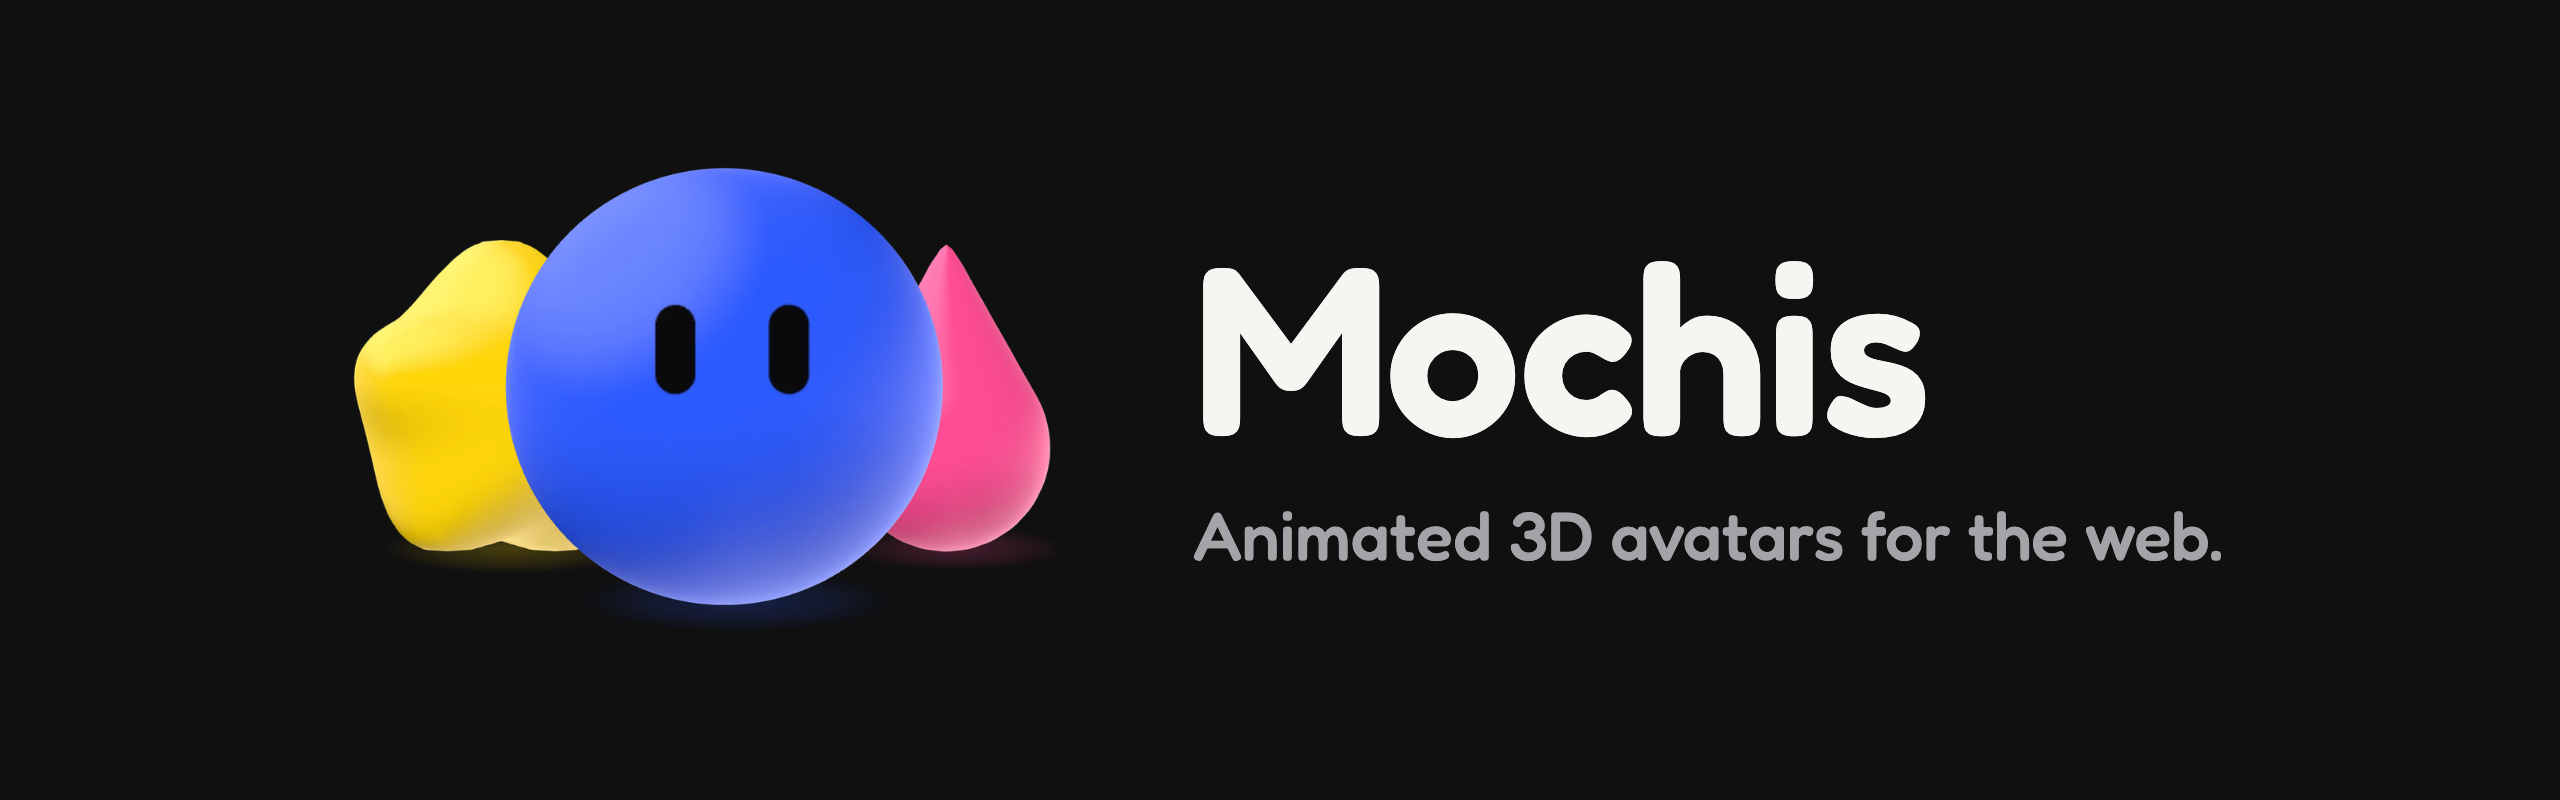
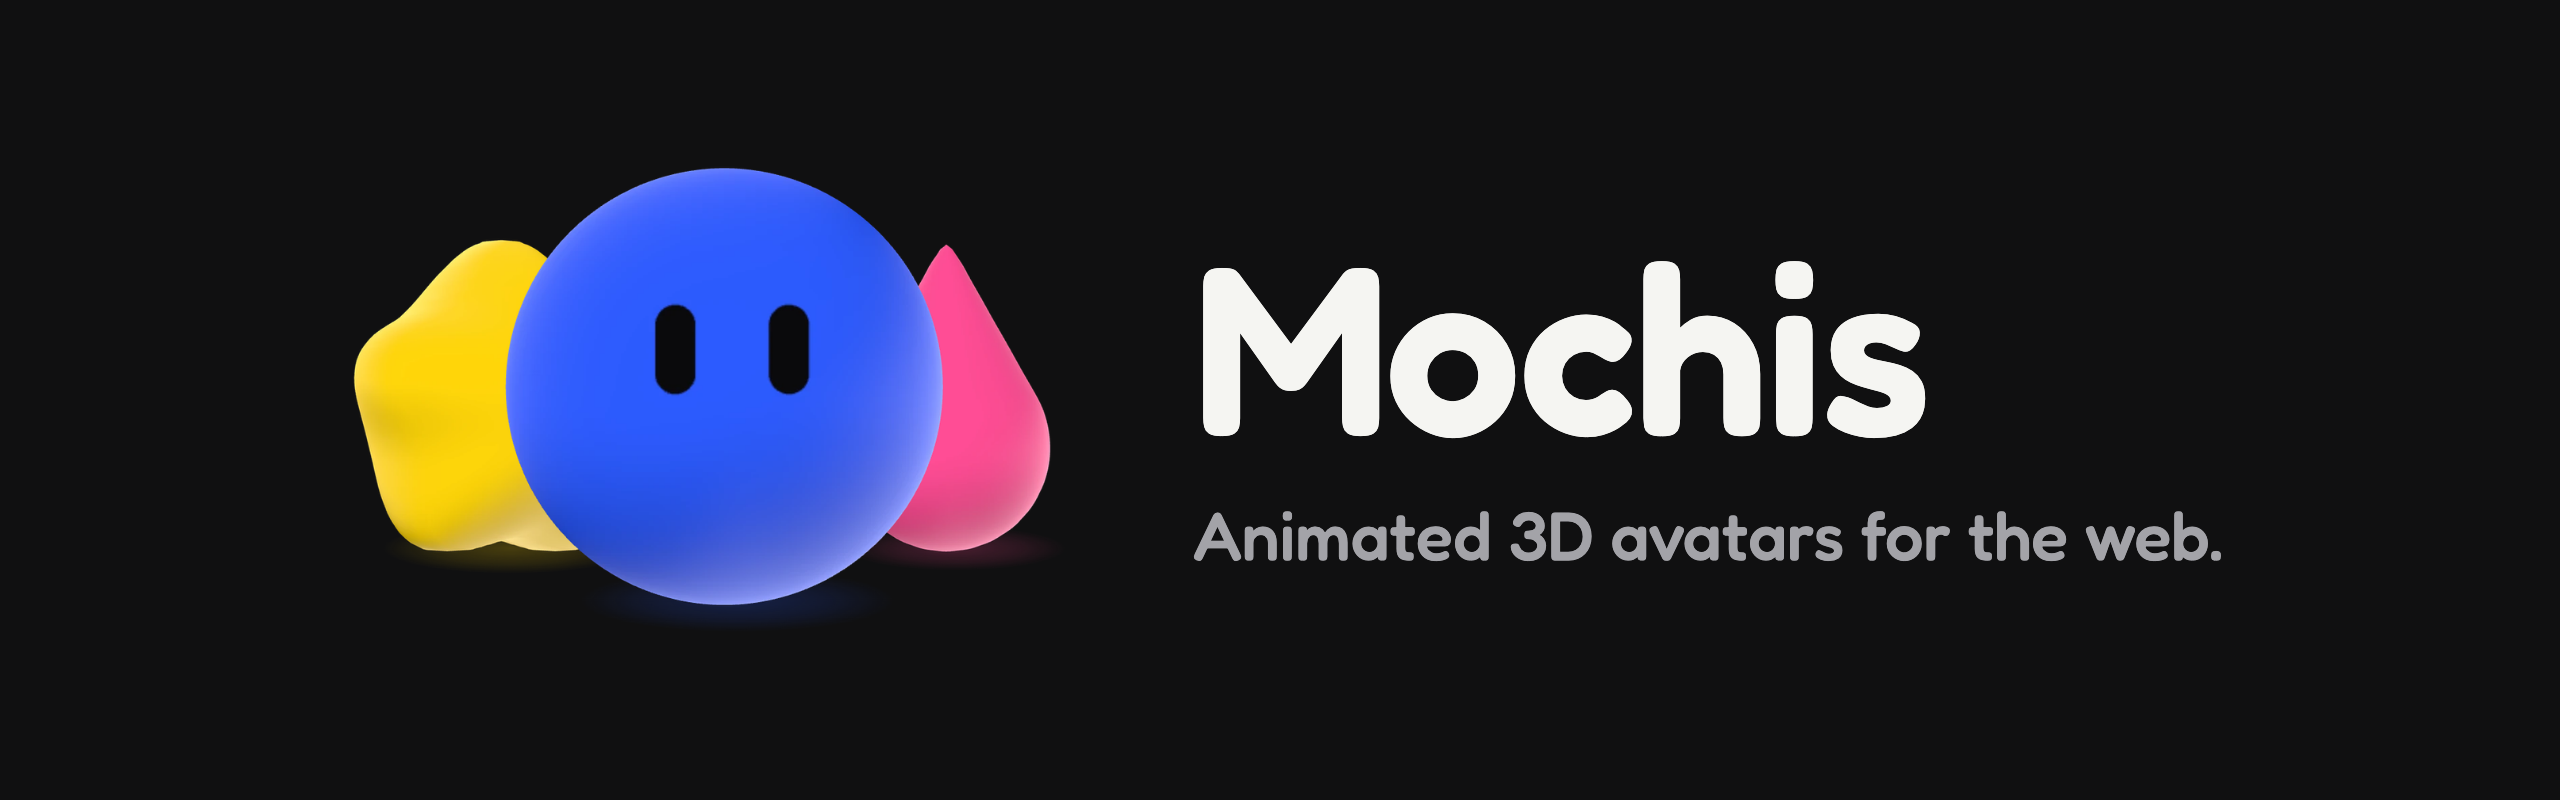
Identity images and lab screenshots without the shine spot
- og.png, docs/banner.png and docs/banner-dark.png recomposed with the same P3 layout,
  from Mochis rendered by the current engine (only the highlight changes).
- docs/variants: the old 2D-era and highlight/outline comparison sheets are replaced by
  current lab captures (styles, shapes x styles, turntable); styles.md links them.

Claude-Session: https://claude.ai/code/session_01W5fu7ByrrBFSvr8x7FWJfj

Changed region(s): [[0.125, 0.2188, 0.3125, 0.4688], [0.3438, 0.3125, 0.375, 0.4062]]

diff --git a/src/lab/FlatSheet3d.ts b/src/lab/FlatSheet3d.ts
@@ -66,7 +66,7 @@ export const FlatSheet3d: Component<Record<string, never>> = () => {
     h(
       'main',
       { class: 'p-4' },
-      h('h1', { class: 'mb-3 text-lg font-bold' }, '3D: Flat, Soft light, Soft strong'),
+      h('h1', { class: 'mb-3 text-lg font-bold' }, '3D: Flat, Soft light, Soft strong, Soft without shading'),
       h(
         'div',
         { class: 'max-w-full overflow-x-auto' },

diff --git a/docs/styles.md b/docs/styles.md
@@ -49,7 +49,7 @@ The shadow is a smooth, matte ramp of `dot(normal, light)`, with the light at th
 
 Flat uses the `toon` material and Pixel the `pixel` material: the render style picks the material, there is no option for it. Other materials stay in the code but are not offered: `flat` (two tones only, judged too heavy), `toon-outline`, `lowpoly` and `realistic` (internal only). There is no cartoon outline option (removed in 0.2.0); the thin outline of the Pixel style is part of its drawing.
 
-Screenshots: `docs/variants/`.
+Screenshots, taken from the lab (`/lab`): [the four looks of Flat and Soft](variants/3d-styles-sheet.png), [every shape in each style](variants/3d-shapes-sheet.png) and [every shape seen from four angles](variants/3d-turntable.png).
 
 ## Known limits
 
